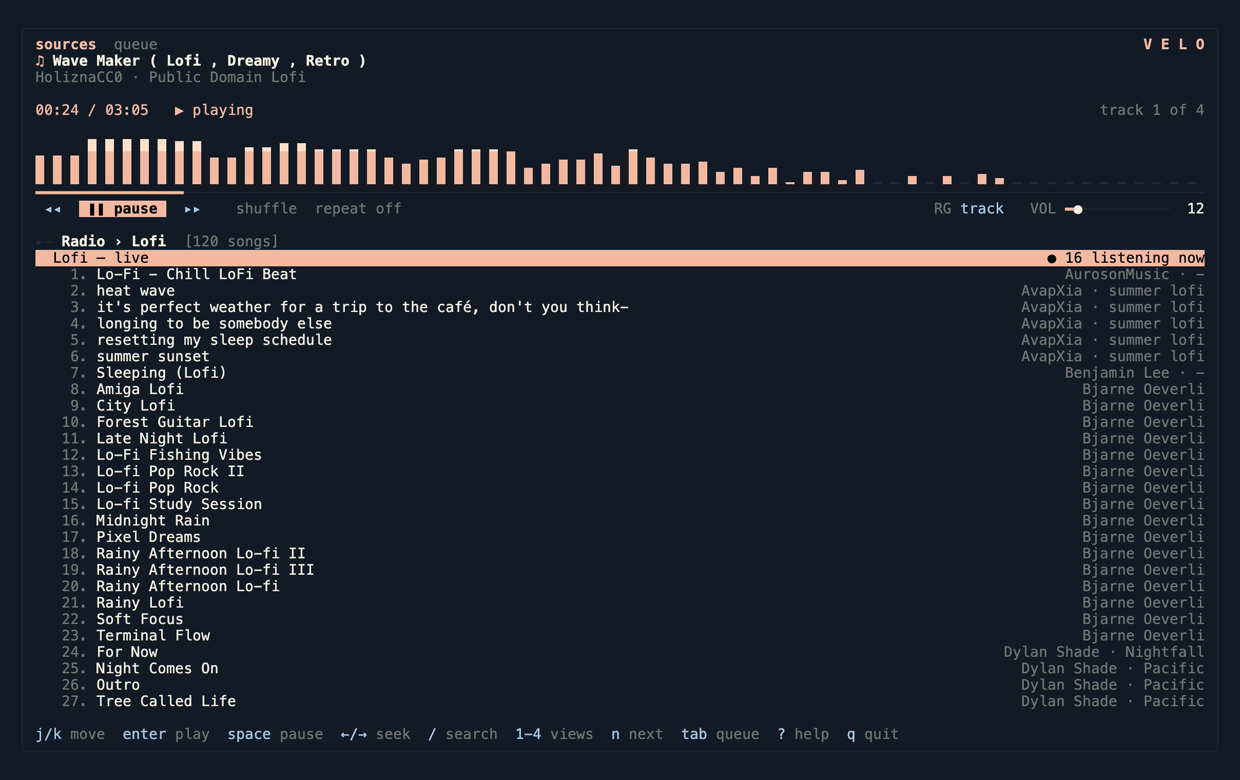
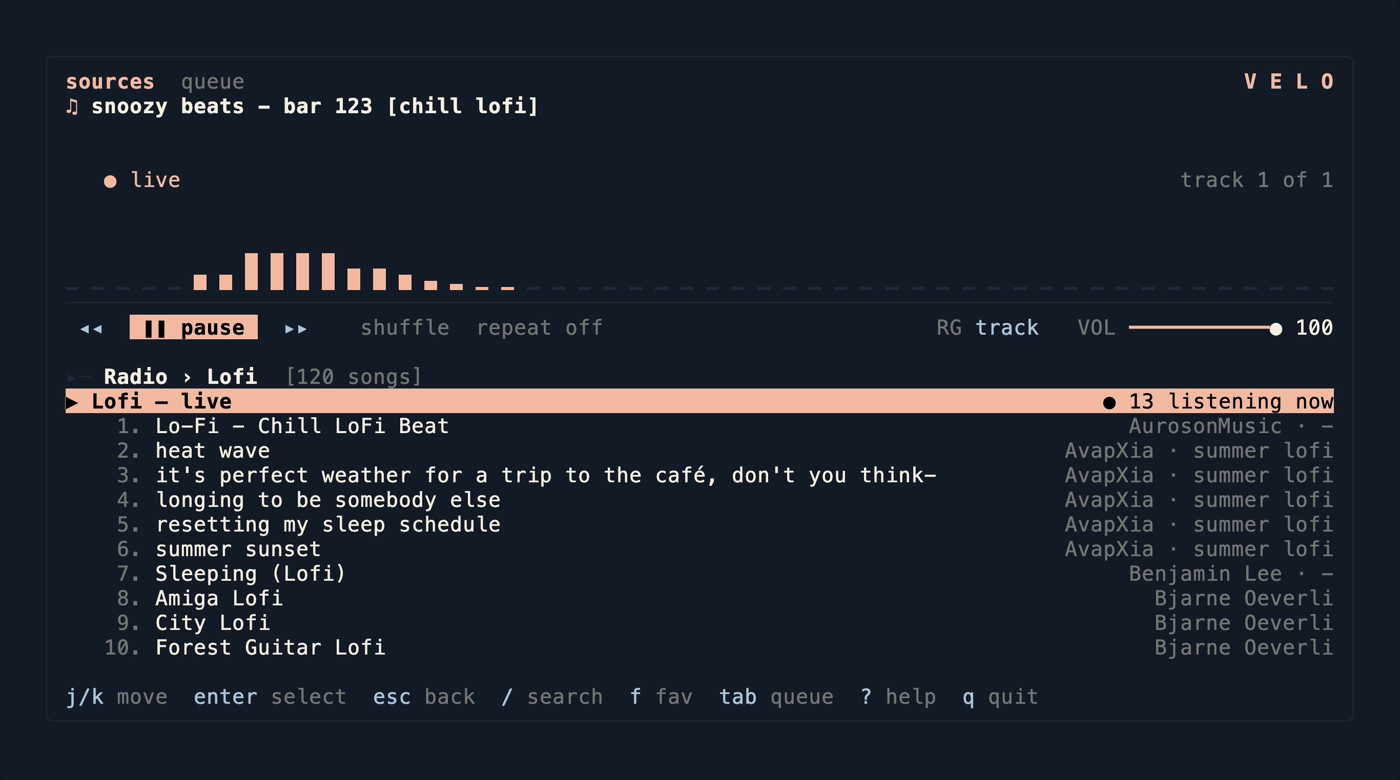
docs(media): record the README's screenshots from a real velo
The three images still showed the hint row the app stopped drawing when
the footer learned to follow the screen: `1-4 views`, `n next` and
`seek`, which now belong to no view at all. They are recorded again from
the binary built in this checkout, so they show the tracks view, the
full-window visualizer and a playing radio channel with the hints each
one really carries.

`docs/media/render.sh` and one `.tape` per image keep the recipe: vhs
drives a real terminal, ffmpeg keeps the last frame, and the run uses a
scratch config with the cover art pane off, because the recording
terminal speaks no image protocol. The intermediate GIFs are ignored.

The README's captions follow the new content: the library's tracks, and
a channel that is playing.

diff --git a/README.md b/README.md
@@ -13,11 +13,11 @@ no daemon, no server.
 
 Site, with a player you can press play on: <https://alvaldes.github.io/velo/>
 
-![The library's tracks view while a track plays: the now-playing block with its clock and spectrum, the transport, and seven tracks with the playing row marked](docs/media/shot-library.png)
+![The library's tracks view while a track plays: the now-playing block with its clock and spectrum, the transport, and the library's tracks with the playing row marked](docs/media/shot-library.png)
 
 | The visualizer over the whole window (`V`) | A radio channel: the live row, then its songs |
 |:--|:--|
-| ![The spectrum drawn as bars across the full height of the terminal](docs/media/shot-visualizer.png) | ![Radio › Lofi: a live row with its listener count above the channel's numbered songs](docs/media/shot-radio.png) |
+| ![The spectrum drawn as bars across the full height of the terminal](docs/media/shot-visualizer.png) | ![Radio › Lofi while it plays: the live row with its listener count above the channel's numbered songs](docs/media/shot-radio.png) |
 
 ## Features
 
